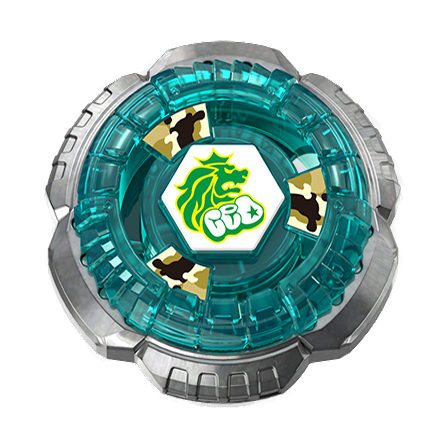
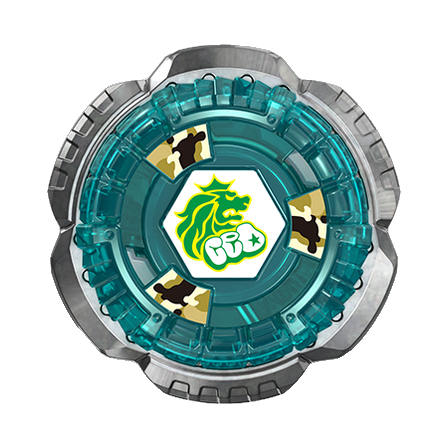
fix: update Rock Leone and Tricera Press fronts

diff --git a/index.html b/index.html
@@ -484,14 +484,14 @@
         "#app/services": "./src/app-services.js?v=20260714-scroll-affordance-overlay",
         "#app/markup-core": "./src/markup-core.js?v=20260714-scroll-affordance-overlay",
         "#app/anime-core": "./src/anime-core.js?v=20260720-burst-airdate-notes",
-        "#app/data-store": "./src/data-store.js?v=20260807-x-storm-spriggan-front-select-audit",
+        "#app/data-store": "./src/data-store.js?v=20260807-x-rock-leone-tricera-fronts",
         "#app/search-data-decoder": "./src/search-data-decoder.js?v=20260720-burst-airdate-notes",
         "#app/ui-core": "./src/ui-core.js?v=20260731-mobile-highlight-fix",
         "#app/release-core": "./src/release-core.js?v=20260731-mobile-highlight-fix",
         "#app/scroll-affordance": "./src/scroll-affordance.js?v=20260719-dropdown-shadow-mounted-label",
         "#app/search-core": "./src/search-core.js?v=20260717-dead-code-cleanup",
         "#app/search-engine": "./src/search-engine.js?v=20260731-mobile-highlight-fix",
-        "#app/catalog-model": "./src/catalog-model.js?v=20260807-x-storm-spriggan-front-select-audit",
+        "#app/catalog-model": "./src/catalog-model.js?v=20260807-x-rock-leone-tricera-fronts",
         "#app/collection-view": "./src/collection-view.js?v=20260731-mobile-highlight-fix",
         "#app/catalog-view": "./src/catalog-view.js?v=20260717-dead-code-cleanup",
         "#app/route-parser": "./src/route-parser.js?v=20260714-scroll-affordance-overlay",
@@ -500,7 +500,7 @@
         "#app/search-controller": "./src/search-controller.js?v=20260714-scroll-affordance-overlay",
         "#app/search-help-controller": "./src/search-help-controller.js?v=20260717-dead-code-cleanup",
         "#app/detail-view": "./src/detail-view.js?v=20260803-modal-tag-wheel-edge",
-        "#app/image-preview": "./src/image-preview.js?v=20260807-x-storm-spriggan-front-select-audit",
+        "#app/image-preview": "./src/image-preview.js?v=20260807-x-rock-leone-tricera-fronts",
         "#app/modal-context": "./src/modal-context.js?v=20260714-scroll-affordance-overlay",
         "#app/style-loader": "./src/style-loader.js?v=20260804-mobile-modal-scrollbar-centering",
         "#app/feature-loaders": "./src/feature-loaders.js?v=20260717-dead-code-cleanup",

diff --git a/src/data-store.js b/src/data-store.js
@@ -8,7 +8,7 @@ const bookItems = [];
 const gameItems = [];
 const animeInfo = { title: "", overview: [], characters: [], episodes: [] };
 const searchIndexItems = [];
-const X_ASSET_CACHE_VERSION = "20260807-x-storm-spriggan-front-select-audit";
+const X_ASSET_CACHE_VERSION = "20260807-x-rock-leone-tricera-fronts";
 
 const versionAssetUrl = source => {
   const value = String(source || "");

diff --git a/scripts/build-x-bey-angle-corrections.py b/scripts/build-x-bey-angle-corrections.py
@@ -60,6 +60,7 @@ SUPPLIED_FRONT_IDS = {
     "BEY-X-BX-36-01-WHALE-WAVE-5-80E",
     "BEY-X-BX-37-BEAR-SCRATCH-5-60F",
     "BEY-X-BX-38-CRIMSON-GARUDA-4-70TP",
+    "BEY-X-BX-44-TRICERA-PRESS-M-85BS",
     "BEY-X-BX-45-WARRIOR-CALIBUR-6-70M",
     "BEY-X-BX-49-DRAN-STRIKE-4-50FF",
     "BEY-X-UX-00-SCORPIO-SPEAR-0-70Z",
@@ -84,6 +85,7 @@ SUPPLIED_FRONT_IDS = {
     "BEY-X-BX-00-DRAN-SWORD-3-60F",
     "BEY-X-BX-00-MAMMOTH-TUSK-2-80E",
     "BEY-X-BX-00-PHOENIX-SOAR-9-60GF",
+    "BEY-X-BX-00-ROCK-LEONE-6-80GN",
     "BEY-X-BX-00-STORM-PEGASIS-3-70RA",
     "BEY-X-BX-00-VICTORY-VALKYRIE-2-60RA",
     "BEY-X-BX-39-01-SHELTER-DRAKE-7-80GP",
@@ -110,7 +112,7 @@ SUPPLIED_FRONT_IDS = {
     "BEY-X-UX-19-BULLET-GRIFFON-H",
     "BEY-X-UX-20-GLORY-VALKYRIE-LF",
 }
-CONFIG_VERSION = "20260807-x-storm-spriggan-front-select-audit"
+CONFIG_VERSION = "20260807-x-rock-leone-tricera-fronts"
 
 
 def parse_args() -> argparse.Namespace:

diff --git a/scripts/normalize-x-bey-front-images.py b/scripts/normalize-x-bey-front-images.py
@@ -16,7 +16,7 @@ from PIL import Image
 
 CONFIG_PATH = Path("data/source/x-bey-primary-images.json")
 ANGLE_CONFIG_PATH = Path("data/source/x-bey-angle-corrections.json")
-CONFIG_VERSION = "20260807-x-storm-spriggan-front-select-audit"
+CONFIG_VERSION = "20260807-x-rock-leone-tricera-fronts"
 CANVAS_SIZE = 448
 TARGET_FOREGROUND_SIZE = 360
 ALPHA_THRESHOLD = 3
@@ -152,8 +152,8 @@ def main() -> int:
     validate_policy(config)
 
     entries = config_entries(config)
-    if len(entries) != 197:
-        raise ValueError(f"expected 197 front-view Beys, found {len(entries)}")
+    if len(entries) != 199:
+        raise ValueError(f"expected 199 front-view Beys, found {len(entries)}")
     ids = [entry["id"] for entry in entries]
     paths = [entry["image"] for entry in entries]
     if len(set(ids)) != len(ids) or len(set(paths)) != len(paths):

diff --git a/scripts/record-x-image-alpha-review.py b/scripts/record-x-image-alpha-review.py
@@ -14,7 +14,7 @@ from PIL import Image
 CANVAS_SIZE = 448
 MIN_MARGIN = 6
 MAX_FOREGROUND_SIZE = CANVAS_SIZE - MIN_MARGIN * 2
-REVIEW_VERSION = "20260807-x-storm-spriggan-front-select-audit"
+REVIEW_VERSION = "20260807-x-rock-leone-tricera-fronts"
 
 
 def parse_args() -> argparse.Namespace:
